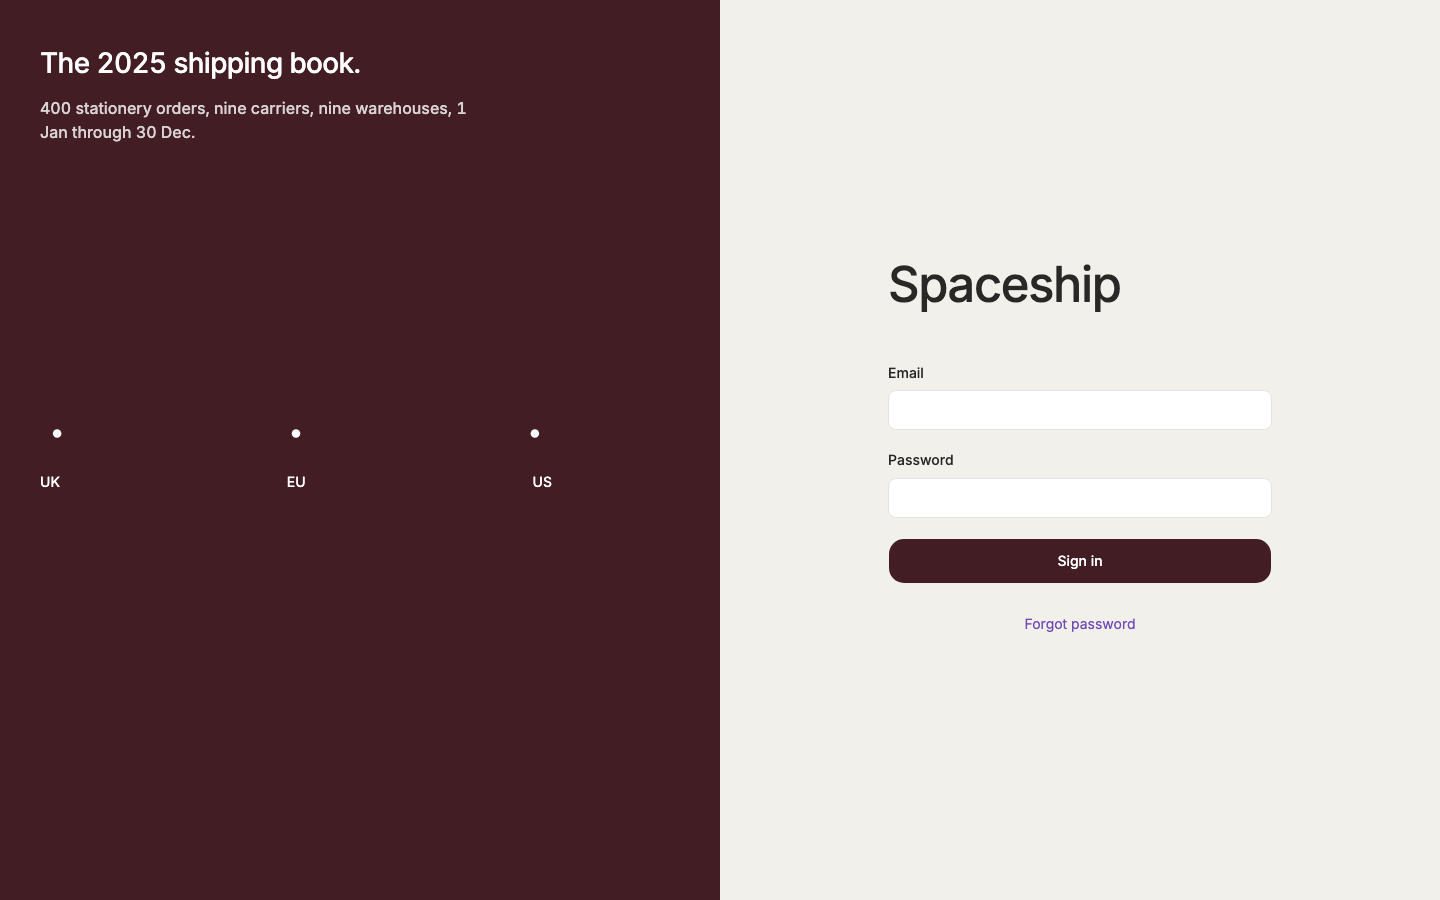
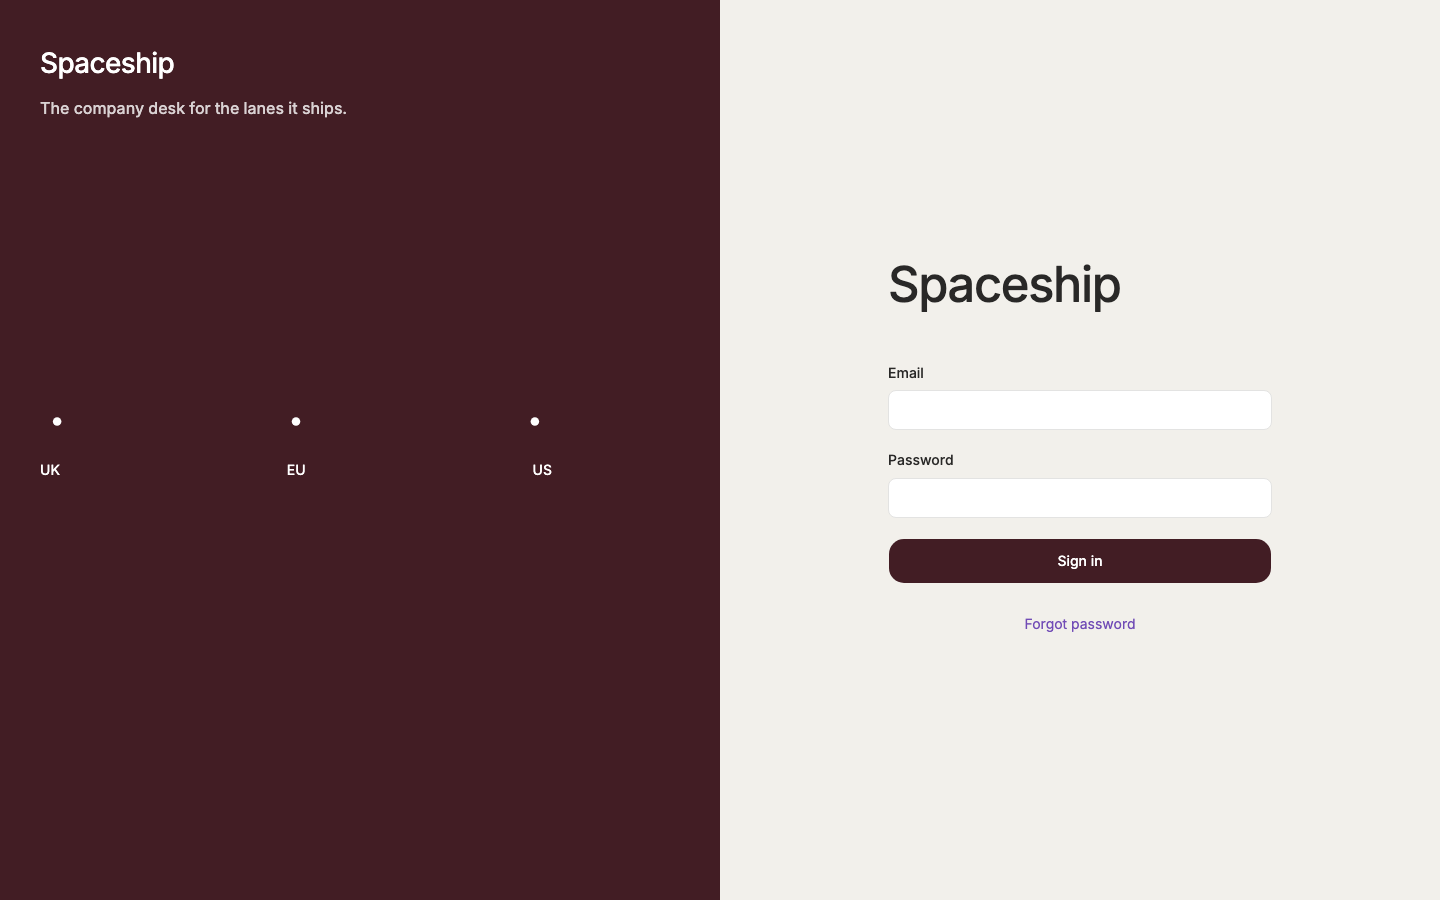
refactor: update LoginStory component and replace sign-in image
- Changed the title and description in the LoginStory component for improved clarity.
- Updated the sign-in image to a new version for better visual representation.

Changed region(s): [[0.0312, 0.0622, 0.3125, 0.1556]]

diff --git a/apps/web/src/components/LoginStory.tsx b/apps/web/src/components/LoginStory.tsx
@@ -14,10 +14,8 @@ export function LoginStory() {
   return (
     <section className="flex h-full flex-col justify-between gap-10 bg-primary px-6 py-10 text-primary-foreground md:min-h-svh md:px-10 md:py-12">
       <div className="flex max-w-md flex-col gap-4">
-        <h2 className="text-[28px] leading-[1.14] tracking-[-0.022em]">The 2025 shipping book.</h2>
-        <p className="text-base text-primary-foreground/80">
-          400 stationery orders, nine carriers, nine warehouses, 1 Jan through 30 Dec.
-        </p>
+        <h2 className="text-[28px] leading-[1.14] tracking-[-0.022em]">Spaceship</h2>
+        <p className="text-base text-primary-foreground/80">The company desk for the lanes it ships.</p>
       </div>
       <div className="max-w-lg">
         <svg viewBox="0 0 480 48" className="w-full text-primary-foreground" aria-hidden>
